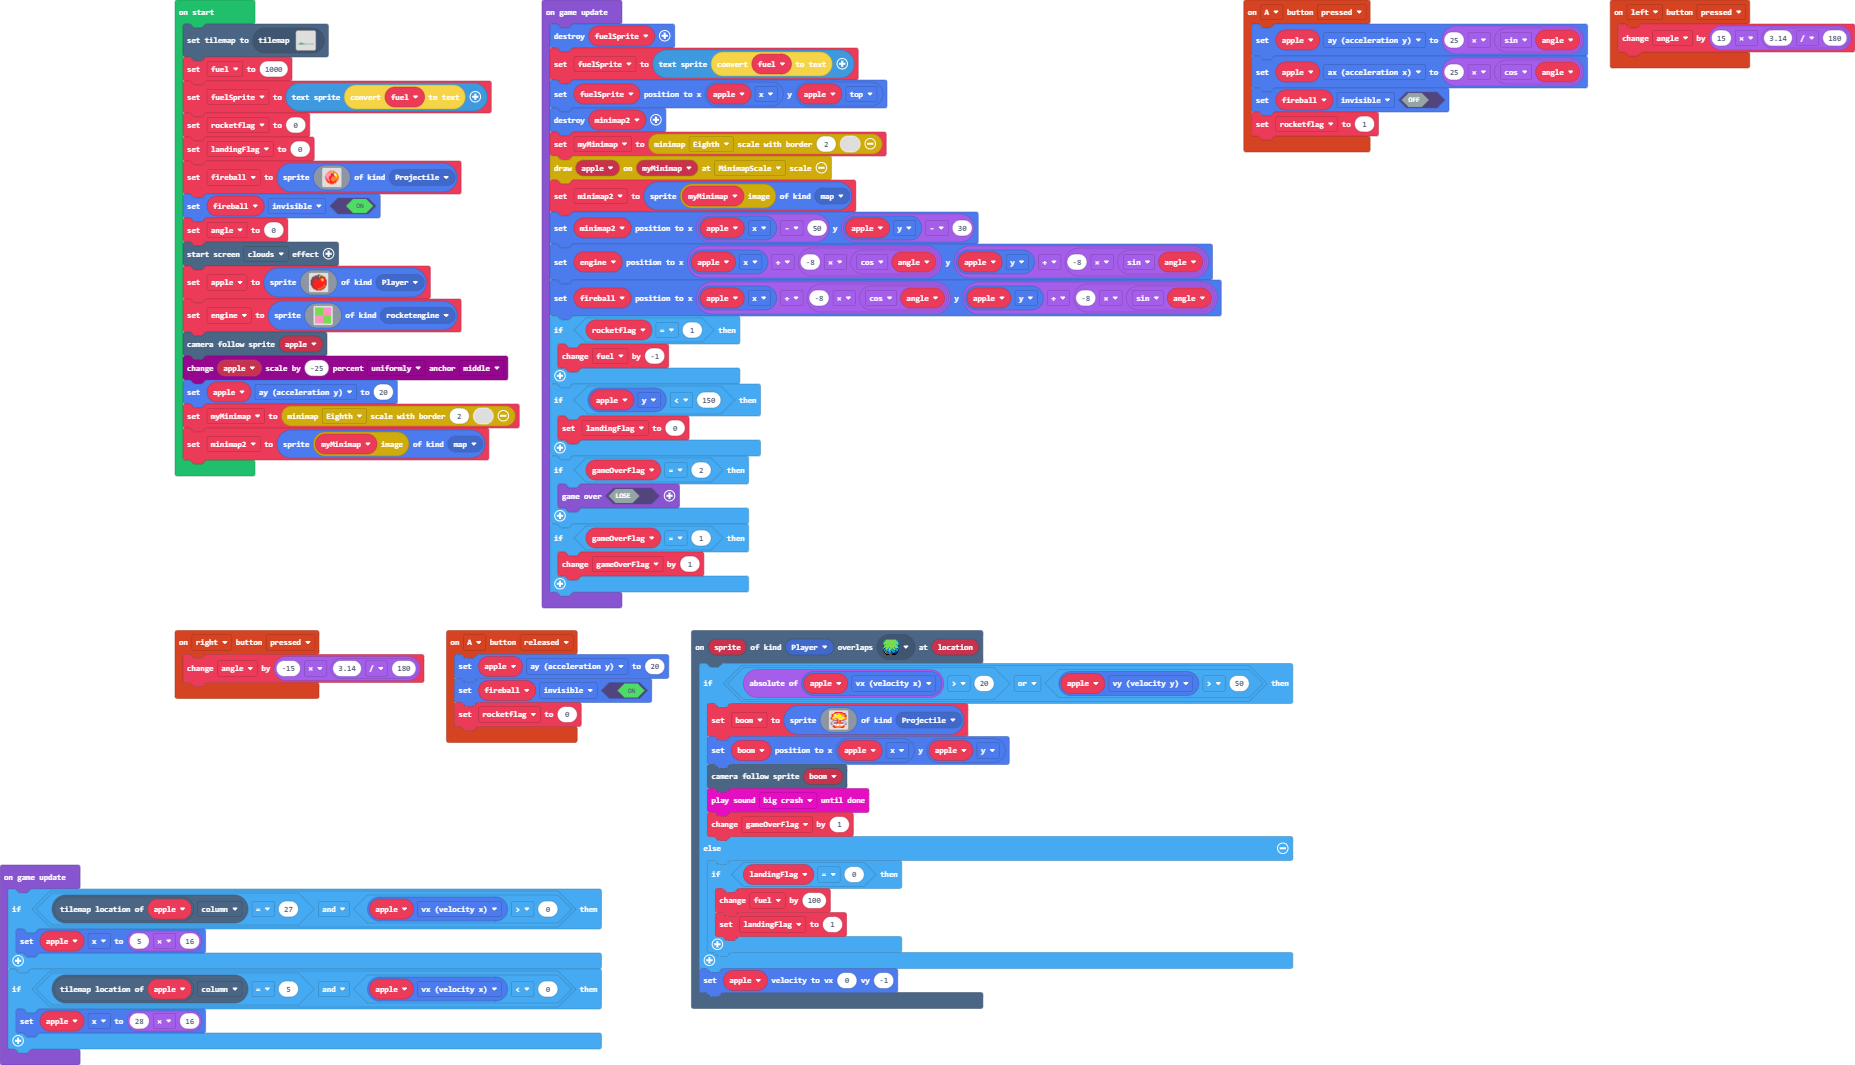
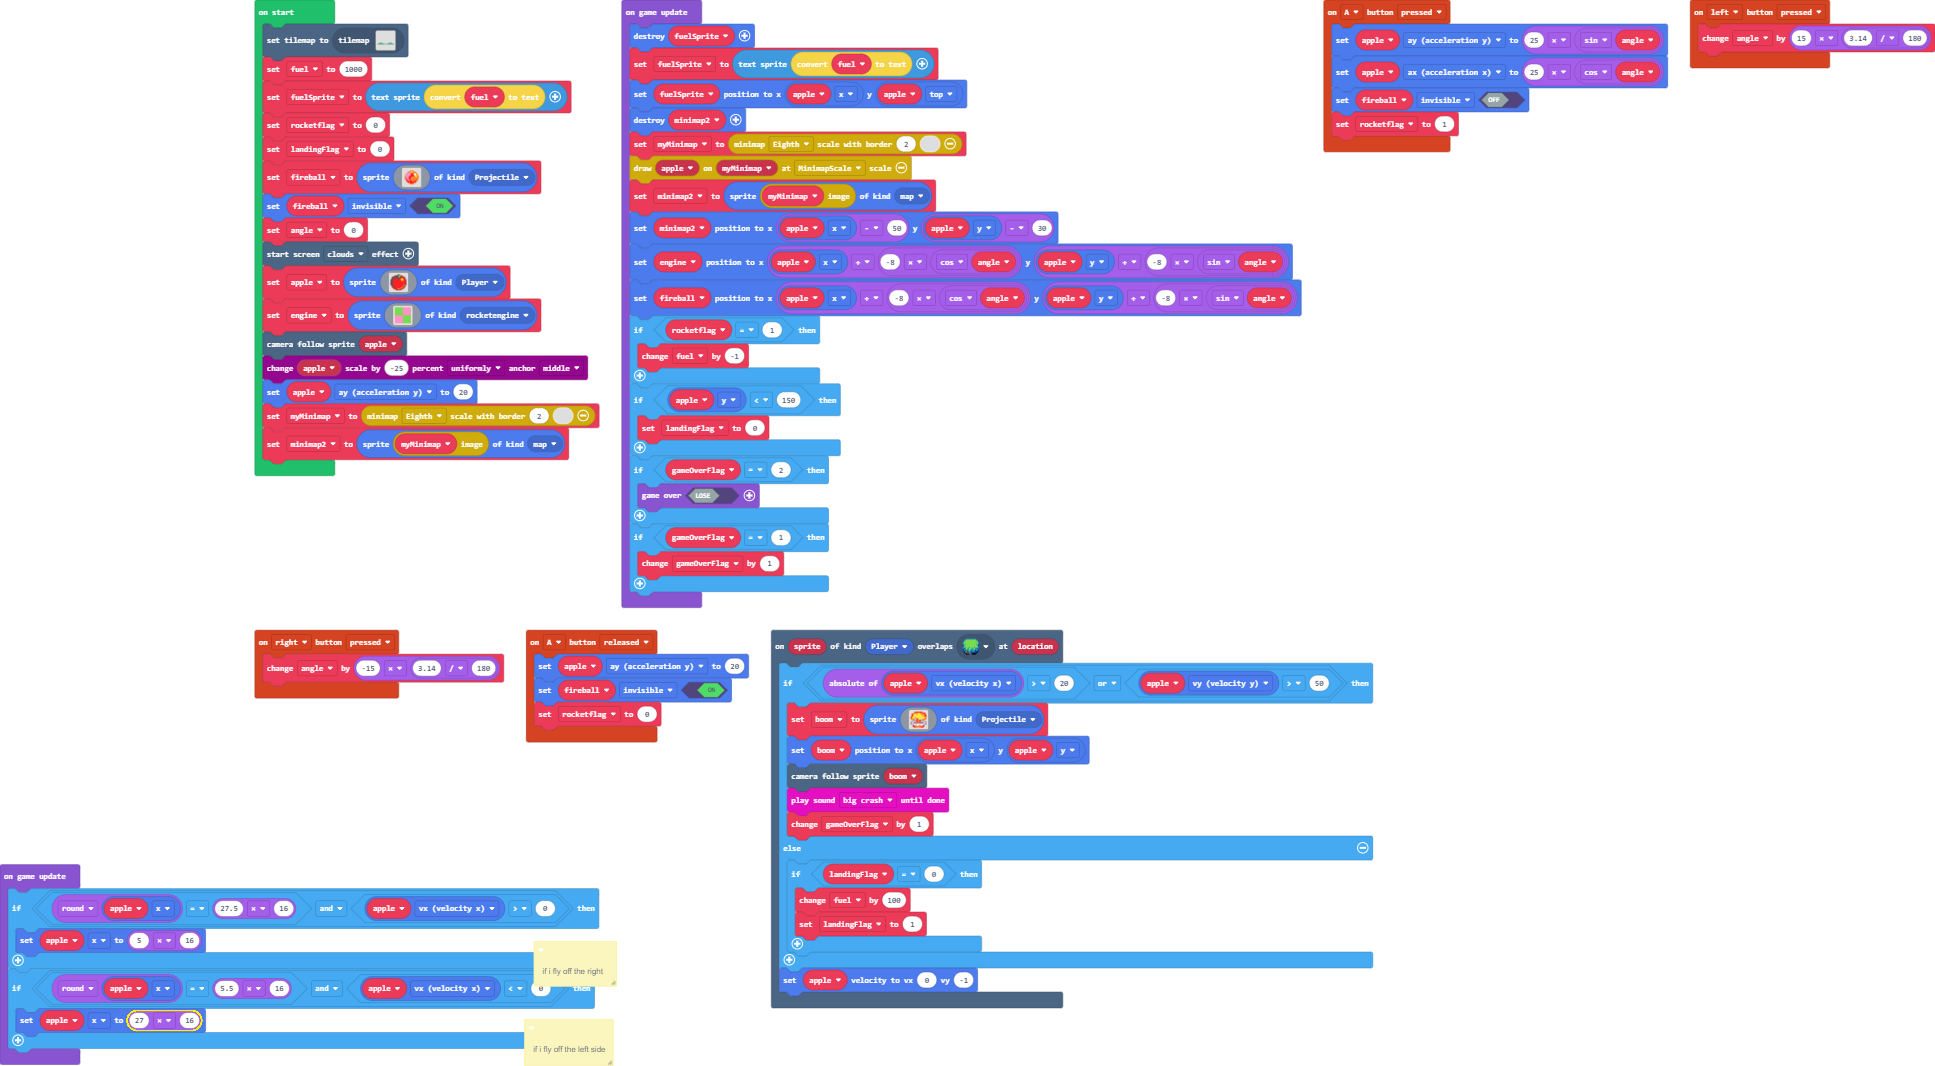
still working on wrapping

diff --git a/main.ts b/main.ts
@@ -135,11 +135,17 @@ game.onUpdate(function () {
         gameOverFlag += 1
     }
 })
+/**
+ * if i fly off the right
+ */
+/**
+ * if i fly off the left side
+ */
 game.onUpdate(function () {
-    if (apple.tilemapLocation().column == 27 && apple.vx > 0) {
+    if (Math.round(apple.x) == 27.5 * 16 && apple.vx > 0) {
         apple.x = 5 * 16
     }
-    if (apple.tilemapLocation().column == 5 && apple.vx < 0) {
-        apple.x = 28 * 16
+    if (Math.round(apple.x) == 5.5 * 16 && apple.vx < 0) {
+        apple.x = 27 * 16
     }
 })
